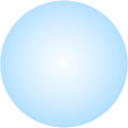
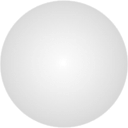
Added particle color modification support. Just look at the trippy trail.

diff --git a/src/particlesystem.h b/src/particlesystem.h
@@ -51,7 +51,7 @@ namespace sbe
 
             struct ValueMod
             {
-                float scalarRateMin, //Scalar modifier min
+                float   scalarRateMin, //Scalar modifier min
                         scalarRateMax, //Scalar modifier max
                         oscFreqMin, //Oscillation frequency min
                         oscFreqMax, //Oscillation frequency max
@@ -62,7 +62,7 @@ namespace sbe
 
             struct FadeMod
             {
-                float fadeInMin, //Fade in duration min
+                float   fadeInMin, //Fade in duration min
                         fadeInMax, //Fade in duration max
                         fadeOutMin, //Fade out duration min
                         fadeOutMax; //Fade out duration max
@@ -83,16 +83,16 @@ namespace sbe
                             child2,
                             child3,
                             child4;
-            bool rotRandom,                         //Particle rotation randomization. Spawns the particles with random rotation. Is overridden by rotation alignment
+            bool            rotRandom,              //Particle rotation randomization. Spawns the particles with random rotation. Is overridden by rotation alignment
                             rotAlign,               //Align rotation to emission angle. Use rotation parameter to adjust. Overrides random rotation
                             internalOsc;            //Controls how parameter values oscillate. 1 = particles use their internal clock, 0 = particles use particle system's global clock.
-            int emissionType,                       //Particle system type. 1 = continuous, 2 = instant
+            int             emissionType,           //Particle system type. 1 = continuous, 2 = instant
                             emissionMax,            //Amount of particles to emit if type = 2
                             alphaMin,               //Initial alpha min. 0 = invisible, 255 = opaque.
                             alphaMax,               //Initial alpha max. 0 = invisible, 255 = opaque.
                             emissionAngleMin,       //Minimum angle at which particles are emitted. 0 = straight upwards, 180 = straight downwards
                             emissionAngleMax;       //Maximum angle at which particles are emitted. 0 = straight upwards, 180 = straight downwards
-            float sizeMin,                          //Size min
+            float           sizeMin,                //Size min
                             sizeMax,                //Size max
                             sizeRatio,              //Size ratio
                             lifeSpanMin,            //Lifespan min
@@ -107,10 +107,13 @@ namespace sbe
                             rotation,               //Particle rotation if not random
                             movementAngleMin,
                             movementAngleMax;
-            ValueMod sizeModifier,                  //Size modifiers
+            ValueMod        sizeModifier,           //Size modifiers
                             emissionAngleModifier,  //Emission angle modifier
                             alphaModifier;          //Alpha modifier
-            FadeMod fadeModifier;                   //Fade parameters
+            FadeMod         fadeModifier;           //Fade parameters
+            DiffColor       colorInitial,
+                            colorModified;
+            ColModData      colorModData;
 
             //Parameter list
             std::map<std::string, std::string> parameterList; //TODO (Fewes#1#): PARAMETERS SHOULD NOT BE STORED IN A MAP, BUT IN CLASS VARIABLES. I left this in here so the program would compile oorrectly. Should be fixed ASAP

diff --git a/src/particlesystem.cpp b/src/particlesystem.cpp
@@ -47,6 +47,17 @@ namespace sbe
         child3 = "none";
         child4 = "none";
 
+        colorInitial.r = 255;
+        colorInitial.g = 255;
+        colorInitial.b = 255;
+
+        colorModified.r = 256;  //256 for system checking. See below
+        colorModified.g = 256;
+        colorModified.b = 256;
+
+        colorModData.duration = 0;
+        colorModData.offset = 0;
+
         emissionType = 1;
         emissionMax = 100;
         emissionRate = 1;
@@ -129,6 +140,26 @@ namespace sbe
                     child3 = parameterValue;
                 else if(parameterKey == "child4")
                     child4 = parameterValue;
+
+                //Color parameters
+                else if(parameterKey == "initial_color_r")
+                    colorInitial.r = atof(parameterValue.c_str());//Convert string to float
+                else if(parameterKey == "initial_color_g")
+                    colorInitial.g = atof(parameterValue.c_str());//Convert string to float
+                else if(parameterKey == "initial_color_b")
+                    colorInitial.b = atof(parameterValue.c_str());//Convert string to float
+
+                else if(parameterKey == "modified_color_r")
+                    colorModified.r = atof(parameterValue.c_str());//Convert string to float
+                else if(parameterKey == "modified_color_g")
+                    colorModified.g = atof(parameterValue.c_str());//Convert string to float
+                else if(parameterKey == "modified_color_b")
+                    colorModified.b = atof(parameterValue.c_str());//Convert string to float
+
+                else if(parameterKey == "color_mod_duration")
+                    colorModData.duration = atof(parameterValue.c_str());//Convert string to float
+                else if(parameterKey == "color_mod_offset")
+                    colorModData.offset = atof(parameterValue.c_str());//Convert string to float
 
                 //Emission parameters
                 else if(parameterKey == "emission_type")
@@ -248,6 +279,14 @@ namespace sbe
                     Logger::writeMsg(1) << "Invalid particle system parameter: " << parameterKey;
             }
         }
+
+        //Fix color mod values if non present in the script file
+        if(colorModified.r > 255)
+            colorModified.r = colorInitial.r;
+        if(colorModified.g > 255)
+            colorModified.g = colorInitial.r;
+        if(colorModified.b > 255)
+            colorModified.b = colorInitial.r;
 
         //No name parameter found in script file
         if(name == "none" || name == "")
@@ -423,7 +462,10 @@ namespace sbe
                                                     movementModAngle,
                                                     age,
                                                     rotAlign,
-                                                    internalOsc
+                                                    internalOsc,
+                                                    colorInitial,
+                                                    colorModified,
+                                                    colorModData
                                                     )); //Add new particle to list
                     particleList.back().SetPosition( xPos , yPos ); //Set start position of particle to the particle system's coordinates //TODO(Fewes#2#) Add offset functionality
                     particleList.back().setRotRate( rotRate ); //Set rotation rate

diff --git a/src/particle.cpp b/src/particle.cpp
@@ -30,7 +30,10 @@ namespace sbe
                        const float&         movementModAngle,
                        const float&         spawnT,
                        const bool&          moveAlign,
-                       const bool&          internalOsc
+                       const bool&          internalOsc,
+                       const DiffColor&     colorInitial,
+                       const DiffColor&     colorModified,
+                       const ColModData&    colorModData
                        )
         : Movable(img, a, v)
     {
@@ -50,6 +53,13 @@ namespace sbe
         movementModAngleRate = movementModAngle;
         moveAngleAlign = moveAlign;
         internalOscillation = internalOsc;
+
+        colIni = colorInitial;
+        colMod = colorModified;
+        colModData = colorModData;
+
+        if(colIni.r != 255 || colIni.g != 255 || colIni.b != 255)
+            SetDiffuseColor(colIni.r, colIni.g, colIni.b);
 
         //Set values if scalar size mod = off and oscillating size mod = on
         if(sizeMod.frequency != 0 && sizeMod.scalarRate == 1)
@@ -75,11 +85,6 @@ namespace sbe
 
     void Particle::update(const float& elapsed)
     {
-
-        //Decrease life
-        life -= elapsed;
-        //Increase age
-        age += elapsed;
 
         //Rotate
         if(rotRate != 0 && !moveAngleAlign)
@@ -161,6 +166,39 @@ namespace sbe
                 SetRotation(getAngle() * -1);       //Reversed angle. Why? :<
             setAngle(getAngle() + movementModAngleRate / (1/elapsed));
         }
+
+        //Apply color mod
+        if(colModData.offset < age)
+        {
+            if(colMod.r != colIni.r)
+            {
+                if(colModData.duration != 0)
+                    SetColorR( GetColorR() - (GetColorR()-colMod.r) / colModData.duration / (1/elapsed) );
+                else
+                    SetColorR( GetColorR() - (GetColorR()-colMod.r) / life / (1/elapsed) );
+            }
+
+            if(colMod.g != colIni.g )
+            {
+                if(colModData.duration != 0)
+                    SetColorG( GetColorG() - (GetColorG()-colMod.g) / colModData.duration / (1/elapsed) );
+                else
+                    SetColorG( GetColorG() - (GetColorG()-colMod.g) / life / (1/elapsed) );
+            }
+
+            if(colMod.b != colIni.b )
+            {
+                if(colModData.duration != 0)
+                    SetColorB( GetColorB() - (GetColorB()-colMod.b) / colModData.duration / (1/elapsed) );
+                else
+                    SetColorB( GetColorB() - (GetColorB()-colMod.b) / life / (1/elapsed) );
+            }
+        }
+
+        //Decrease life
+        life -= elapsed;
+        //Increase age
+        age += elapsed;
 
         //Update particle
         Movable::update(elapsed);

diff --git a/src/particle.h b/src/particle.h
@@ -24,6 +24,19 @@ namespace sbe
                 amplitudeOffset;
     };
 
+    struct DiffColor
+    {
+        float   r,
+                g,
+                b;
+    };
+
+    struct ColModData
+    {
+        float   duration,
+                offset;
+    };
+
     class Particle : public sbe::Movable
     {
         /*
@@ -45,7 +58,10 @@ namespace sbe
                        const float&         movementModAngle,
                        const float&         spawnT,
                        const bool&          moveAlign,
-                       const bool&          internalOsc
+                       const bool&          internalOsc,
+                       const DiffColor&     colorInitial,
+                       const DiffColor&     colorModified,
+                       const ColModData&    colorModData
                        );
             ~Particle()
             {
@@ -74,6 +90,11 @@ namespace sbe
                     spawnTime;
 
             ParaMod     sizeMod;
+
+            DiffColor   colIni,
+                        colMod;
+
+            ColModData  colModData;
 
             bool    fadeIn,
                     fadeOut;

diff --git a/src/entity.cpp b/src/entity.cpp
@@ -55,4 +55,52 @@ namespace sbe
         sf::Color col = GetColor();
         return col.a;
     }
+
+    void Entity::SetDiffuseColor(int r, int g, int b)
+    {
+        sf::Color col = GetColor();
+        col.r = r;
+        col.g = g;
+        col.b = b;
+        SetColor( col );
+    }
+
+    void Entity::SetColorR(int r)
+    {
+        sf::Color col = GetColor();
+        col.r = r;
+        SetColor( col );
+    }
+
+    void Entity::SetColorG(int g)
+    {
+        sf::Color col = GetColor();
+        col.g = g;
+        SetColor( col );
+    }
+
+    void Entity::SetColorB(int b)
+    {
+        sf::Color col = GetColor();
+        col.b = b;
+        SetColor( col );
+    }
+
+    int Entity::GetColorR()
+    {
+        sf::Color col = GetColor();
+        return col.r;
+    }
+
+    int Entity::GetColorG()
+    {
+        sf::Color col = GetColor();
+        return col.g;
+    }
+
+    int Entity::GetColorB()
+    {
+        sf::Color col = GetColor();
+        return col.b;
+    }
 }

diff --git a/src/entity.h b/src/entity.h
@@ -37,6 +37,13 @@ namespace sbe
 
             virtual void update(const float& elapsed) =0; //Or onThink(), whatever.
             void SetAlpha(int alpha);
+            void SetDiffuseColor(int r, int g, int b);
+            void SetColorR(int r);
+            void SetColorG(int g);
+            void SetColorB(int b);
+            int GetColorR();
+            int GetColorG();
+            int GetColorB();
             int GetAlpha();
         protected:
             int z;
